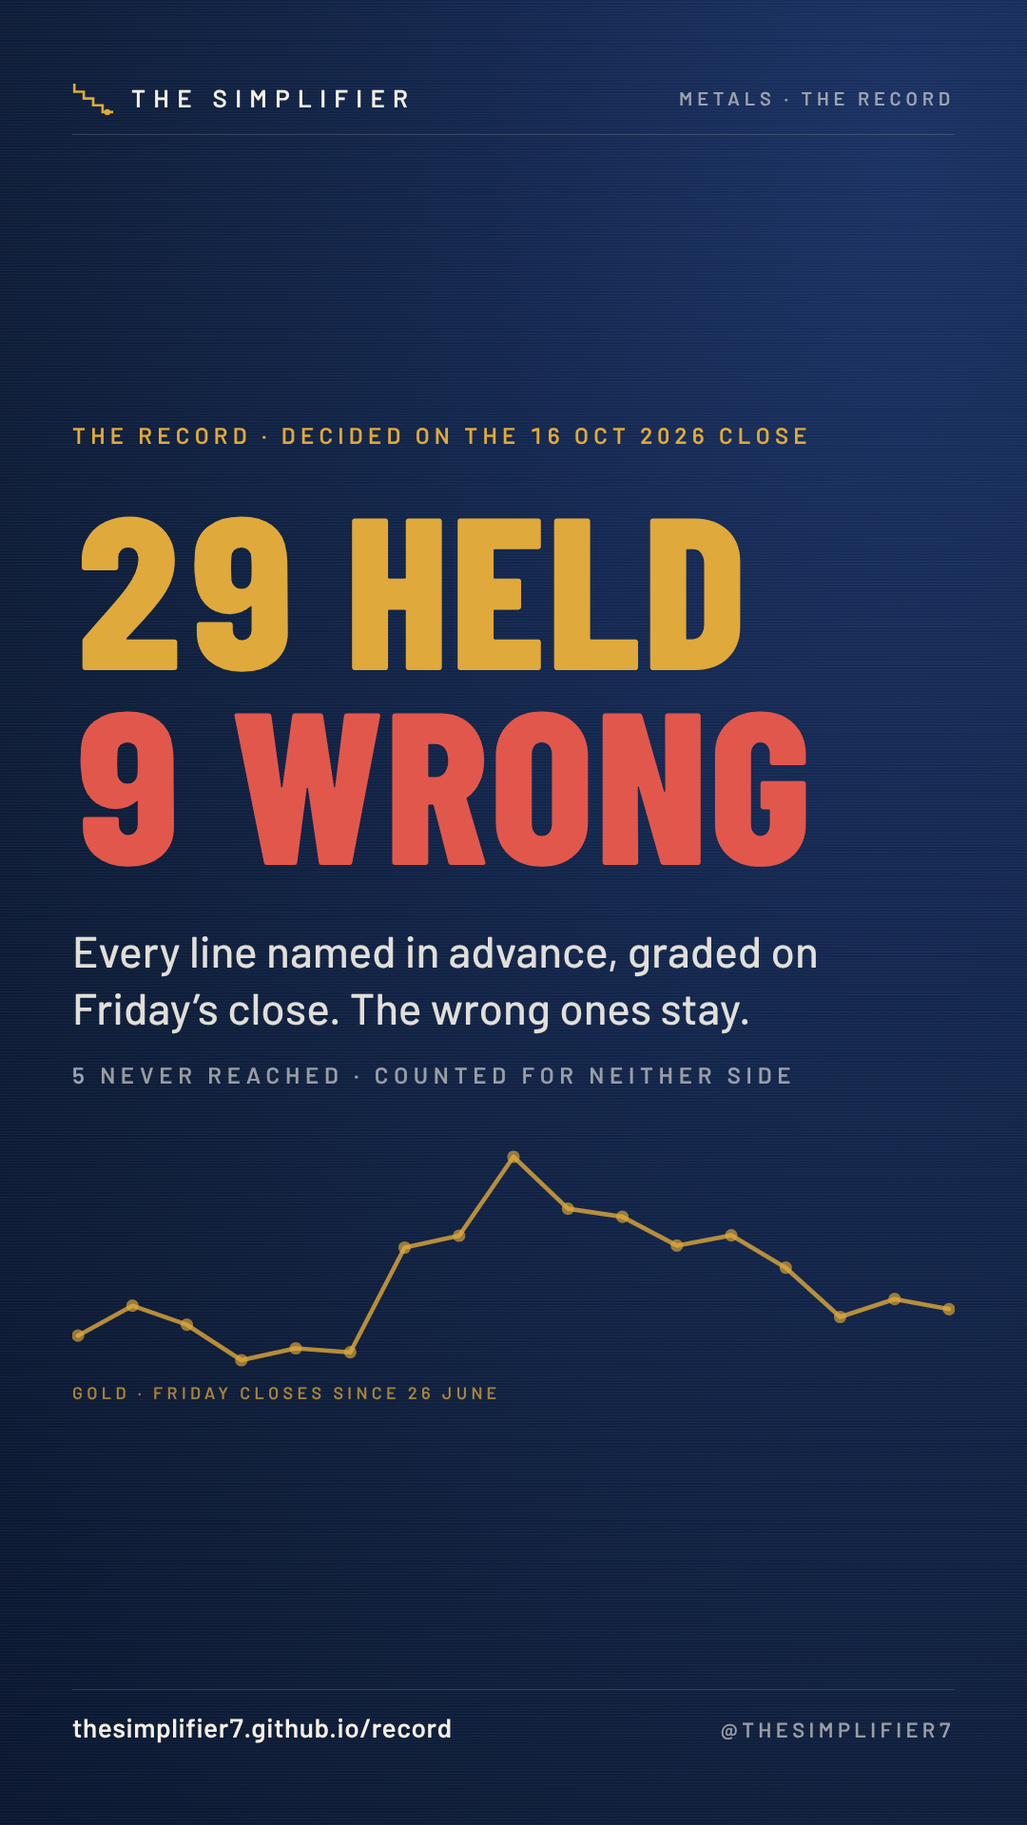
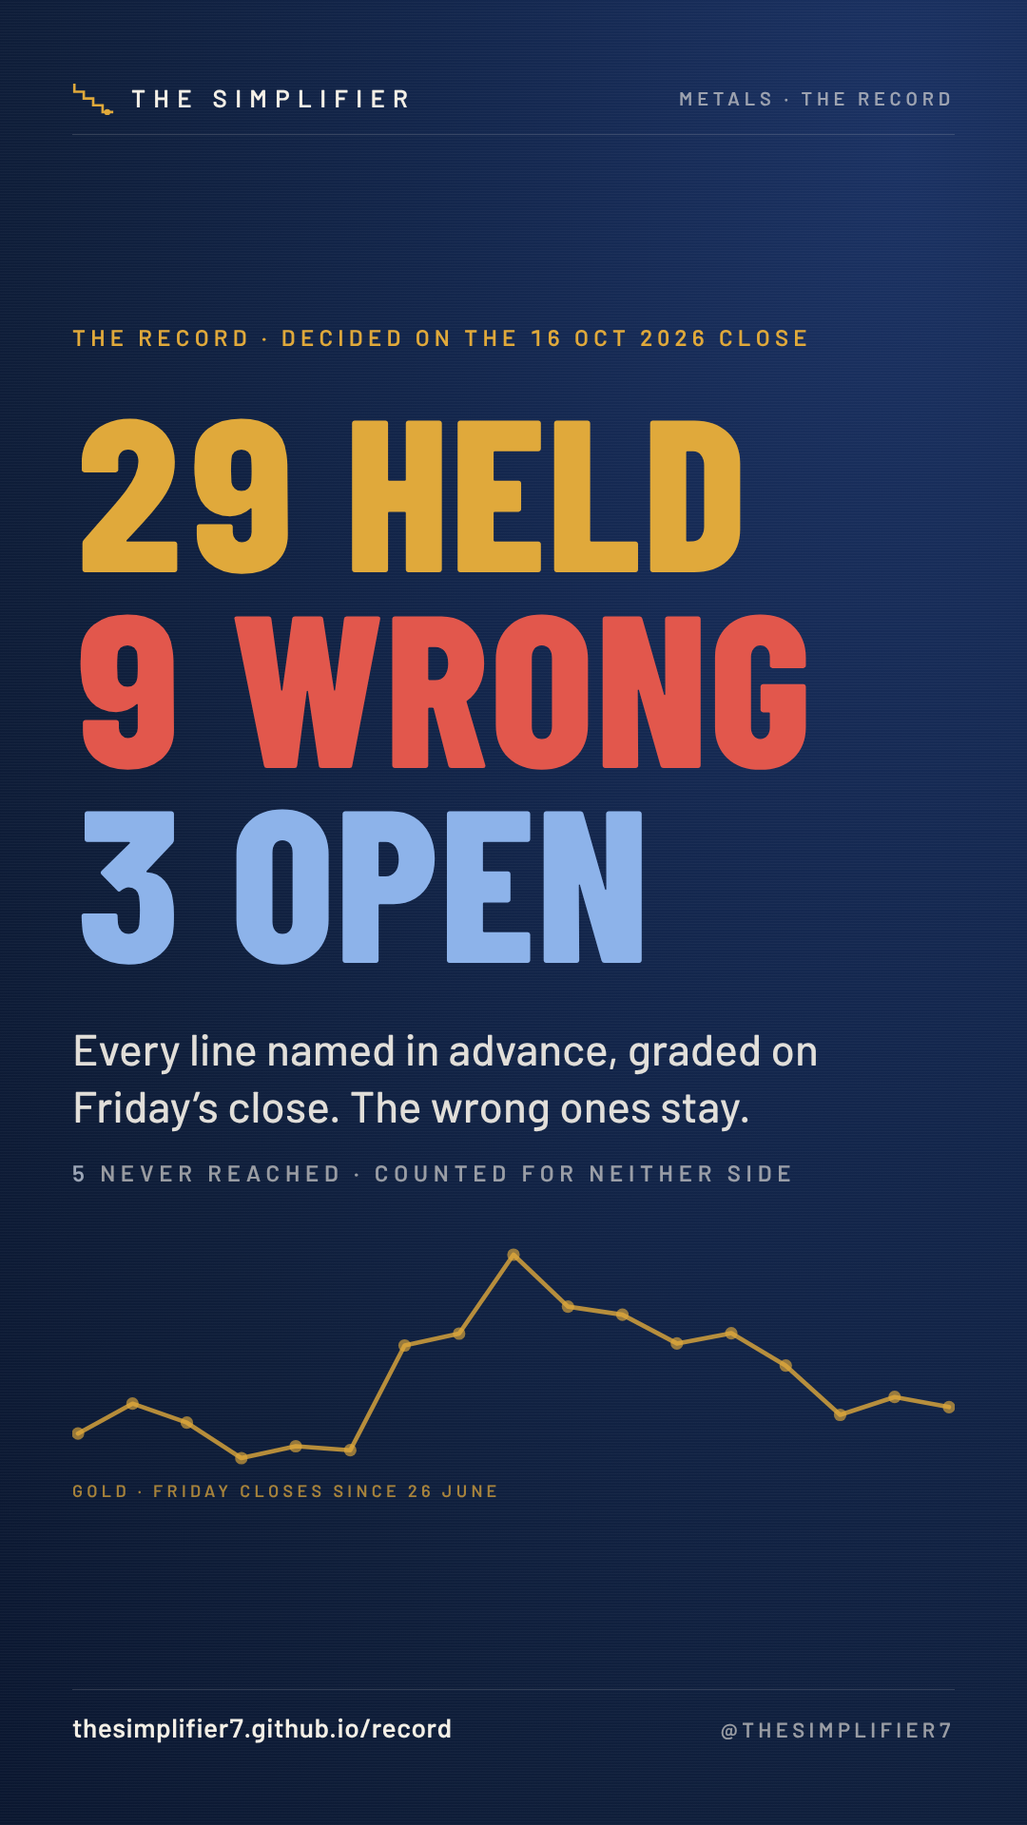
Add files via upload

diff --git a/index.html b/index.html
@@ -96,7 +96,9 @@
      <meta property="og:image" content="https://thesimplifier7.github.io/record/card_2026-10-05_graded.png?v=b55f18bf3b"> -->
 <!-- WAS card_2026-10-12_open.png until 19 Oct 2026, note 51: the week of 12 October while its three rows were open.
      <meta property="og:image" content="https://thesimplifier7.github.io/record/card_2026-10-12_open.png?v=27e7e3112f"> -->
-<meta property="og:image" content="https://thesimplifier7.github.io/record/card_2026-10-12_graded.png?v=5f30445748">
+<!-- WAS card_2026-10-12_graded.png until 19 Oct 2026, the Monday map upload: the week of 12 October, as graded.
+     <meta property="og:image" content="https://thesimplifier7.github.io/record/card_2026-10-12_graded.png?v=5f30445748"> -->
+<meta property="og:image" content="https://thesimplifier7.github.io/record/card_2026-10-19_open.png?v=0bf6b14a66">
 <meta property="og:image:width" content="1200">
 <meta property="og:image:height" content="630">
 <meta name="twitter:card" content="summary_large_image">
@@ -989,7 +991,7 @@
           </tfoot>
         </table>
       </div>
-      <p class="table-note"><span id="t-nr">5</span> never reached and <span id="t-open">0</span> open count for neither side. A hit is held, counted once. <span id="form-key"></span></p>
+      <p class="table-note"><span id="t-nr">5</span> never reached and <span id="t-open">3</span> open count for neither side. A hit is held, counted once. <span id="form-key"></span></p>
       <details class="how">
         <summary>How the count is kept</summary>
         <p class="tally-note"><b>By week, the count this page keeps.</b> <span id="t-note"></span></p>
@@ -1374,7 +1376,7 @@
    posted call before it goes live. This page is the whole brand in one place.
    ========================================================================= */
 
-const LAST_UPDATED  = "2026-10-19";   /* set by hand, with the commit. "2026-10-19" for the grade upload of 19 October, the 16 October close graded, which carries note 51, the line alone. WAS "2026-10-12": "2026-10-12" for the Monday map upload of 12 October, rows named under the call grammar (note 34), which carries note 50, The Fan's price. WAS "2026-10-10": Kept at "2026-10-10" for the third upload of 10 October, which carries note 49, the archive and the read's own line. WAS "2026-10-10" for the second upload of 10 October, which carries note 48, the cards in navy, and the hash of the first. WAS "2026-10-10" for the upload of 10 October, which carries note 46, the 9 October close graded, and note 47, the record as a table. WAS "2026-10-07": "2026-10-07" for the crowd upload of 7 October, which carries note 45, the third crowd row. WAS "2026-10-05": "2026-10-05" for the Monday map upload of 5 October, rows named under the call grammar (note 34). WAS "2026-10-02": "2026-10-02" for the grade upload of 2 October, which carries note 44, the first rows graded under the call grammar. WAS "2026-09-28": "2026-09-28" for the Monday map upload of 28 September, the first rows named under the call grammar (note 34). WAS "2026-09-25": Kept at "2026-09-25" for the grade upload of the same night, which carries note 42 (the 25 September close). WAS "2026-09-24" until the upload of 25 September, which carries notes 38 to 40 (written 24 September) and note 41 (written early on 25 September); "2026-09-23" until the 24 September uploads, which carry notes 33 to 35 (17:34 CEST), note 36 (the same evening) and note 37 (the same night); "2026-09-20" until the 23 September upload, which carries note 30 (written 22 September, not uploaded that day) and note 31; "2026-09-13" until the 20 September upload */
+const LAST_UPDATED  = "2026-10-19";   /* set by hand, with the commit. "2026-10-19" for the Monday map upload of 19 October, the first lines alone (note 51). Kept at "2026-10-19" for the grade upload of 19 October, the 16 October close graded, which carries note 51, the line alone. WAS "2026-10-12": "2026-10-12" for the Monday map upload of 12 October, rows named under the call grammar (note 34), which carries note 50, The Fan's price. WAS "2026-10-10": Kept at "2026-10-10" for the third upload of 10 October, which carries note 49, the archive and the read's own line. WAS "2026-10-10" for the second upload of 10 October, which carries note 48, the cards in navy, and the hash of the first. WAS "2026-10-10" for the upload of 10 October, which carries note 46, the 9 October close graded, and note 47, the record as a table. WAS "2026-10-07": "2026-10-07" for the crowd upload of 7 October, which carries note 45, the third crowd row. WAS "2026-10-05": "2026-10-05" for the Monday map upload of 5 October, rows named under the call grammar (note 34). WAS "2026-10-02": "2026-10-02" for the grade upload of 2 October, which carries note 44, the first rows graded under the call grammar. WAS "2026-09-28": "2026-09-28" for the Monday map upload of 28 September, the first rows named under the call grammar (note 34). WAS "2026-09-25": Kept at "2026-09-25" for the grade upload of the same night, which carries note 42 (the 25 September close). WAS "2026-09-24" until the upload of 25 September, which carries notes 38 to 40 (written 24 September) and note 41 (written early on 25 September); "2026-09-23" until the 24 September uploads, which carry notes 33 to 35 (17:34 CEST), note 36 (the same evening) and note 37 (the same night); "2026-09-20" until the 23 September upload, which carries note 30 (written 22 September, not uploaded that day) and note 31; "2026-09-13" until the 20 September upload */
 
 /* =========================================================================
    PROVENANCE  ·  which commit wrote each grade, added 4 Sep 2026
@@ -1405,7 +1407,10 @@ const PROVENANCE = {
        "2026-10-12": { written:"2026-10-12", open:true },
      Graded on the 16 October close, written 19 October. Named by the day rather than by a hash because the hash does not exist until the
      push that writes this line; swap in the hash on the next push. */
-  "2026-10-12": { graded:"2026-10-16", written:"2026-10-19", dayLink:true },
+  "2026-10-19": { written:"2026-10-19", open:true },
+  /* WAS, until the hash of the 19 October grade push was known:
+       "2026-10-12": { graded:"2026-10-16", written:"2026-10-19", dayLink:true }, */
+  "2026-10-12": { graded:"2026-10-16", written:"2026-10-19", commit:"afc859b" },
   /* WAS, while the rows were open and before the close that graded them:
        "2026-10-05": { written:"2026-10-05", open:true },
      Graded on the 9 October close, written 10 October. Named by the day rather than by a hash because the hash does not exist until the
@@ -2088,6 +2093,19 @@ const STANDING = [
    ========================================================================= */
 
 const CALLS = [
+
+  /* WEEK OF 19 OCTOBER. The first rows named as lines alone (note 51): side, line, where it comes from, read time and kill.
+     Named Monday evening on the week's own opening box, frozen at 16:00 CEST, before the first 8h close after it (23:00 CEST, note 43).
+     Read off the founder's own 2 hour TVC charts stamped 21:33, 21:36 and 21:37 CEST, from THE WEEK row of the panel of The Fan v5:
+       gold      box 4,142.70 to 4,190.38
+       silver    box 56.720 to 57.851
+       platinum  box 1,634.19 to 1,659.10
+     Each panel's THE LINE row read CEILING (gold 4,172.57, silver 58.114, platinum 1,665.94, set Monday 10:00 New York). Offered
+     THE LINE as his own level, which would have needed last week's range read off his chart, he chose the box high at 21:50 CEST,
+     before anything was uploaded. The side and the line are his read. Grade Friday at the 23:00 CEST close. */
+  { date:"2026-10-19", type:"Map", metal:"Gold", level:"4,190.38", book:"Turn", grammar:2, side:"copper", lineFrom:"box high", box:["4,142.70","4,190.38"], readAt:"21:33 CEST", call:"Gold stays below 4,190.38, the high of the box it opened this week in, frozen Monday afternoon and read off the 2 hour chart at 21:33 CEST. Named on the week's own box before any 8h close through it. Kill: a weekly close above 4,190.38.", grade:"pending" },
+  { date:"2026-10-19", type:"Map", metal:"Silver", level:"57.851", book:"Turn", grammar:2, side:"copper", lineFrom:"box high", box:["56.720","57.851"], readAt:"21:36 CEST", call:"Silver stays below 57.851, the high of the box it opened this week in, frozen Monday afternoon and read off the 2 hour chart at 21:36 CEST. Named on the week's own box before any 8h close through it. Kill: a weekly close above 57.851.", grade:"pending" },
+  { date:"2026-10-19", type:"Map", metal:"Platinum", level:"1,659.10", book:"Turn", grammar:2, side:"copper", lineFrom:"box high", box:["1,634.19","1,659.10"], readAt:"21:37 CEST", call:"Platinum stays below 1,659.10, the high of the box it opened this week in, frozen Monday afternoon and read off the 2 hour chart at 21:37 CEST. Named on the week's own box before any 8h close through it. Kill: a weekly close above 1,659.10.", grade:"pending" },
 
   /* WEEK OF 12 OCTOBER. Named Monday evening on the week's own opening box, frozen at
      16:00 CEST, before the first 8h close after it (23:00 CEST Monday, note 43), under the call grammar (note 34).
@@ -5524,7 +5542,7 @@ route(true);
       <div class="lab">Graded wrong, still on this page</div>
     </div>
     <div class="stat">
-      <div class="num blue" id="t-open">0</div>
+      <div class="num blue" id="t-open">3</div>
       <div class="lab">Open, clock running</div>
     </div>
   </section>

diff --git a/week_card.html b/week_card.html
@@ -24,11 +24,11 @@ body::before{content:"";position:absolute;inset:0;opacity:.06;pointer-events:non
 .count .url{margin-left:auto;letter-spacing:.04em;text-transform:none;color:rgba(243,239,230,.58);font-size:16px;font-weight:500}
 </style></head><body>
 <div class="mast"><b><svg viewBox="0 0 40 30" fill="none" aria-hidden="true"><path d="M2 3V9.5H11V16H20V22.5H29V29H38" stroke="#E0A93B" stroke-width="2.4" stroke-linejoin="miter" stroke-linecap="square"></path><circle cx="33.5" cy="29" r="2.9" fill="#E0A93B"></circle></svg>THE SIMPLIFIER</b><span>Metals · the record</span></div>
-<div class="k">Decided on the 16 Oct close · the next calls come Monday</div>
-<div class="cols"><div class="c" style="border-top-color:#E0A93B"><div class="m">Gold</div><div class="lv" style="color:#E0A93B">4,217.19</div>
-    <div class="l2" style="color:#E0A93B">Held</div><div class="l3">close 16 Oct · 4,165.015</div><div class="l4" style="color:#E0A93B">+52.175 clear</div></div><div class="c" style="border-top-color:#E0A93B"><div class="m">Silver</div><div class="lv" style="color:#E0A93B">61.449</div>
-    <div class="l2" style="color:#E0A93B">Held</div><div class="l3">close 16 Oct · 56.9750</div><div class="l4" style="color:#E0A93B">+4.474 clear</div></div><div class="c" style="border-top-color:#E0A93B"><div class="m">Platinum</div><div class="lv" style="color:#E0A93B">1,710.80</div>
-    <div class="l2" style="color:#E0A93B">Held</div><div class="l3">close 16 Oct · 1,645.50</div><div class="l4" style="color:#E0A93B">+65.30 clear</div></div></div>
-<div class="count"><span><b style="color:#F3EFE6">38</b>resolved</span><span><b style="color:#E0A93B">29</b>held</span><span><b style="color:#E2574C">9</b>wrong, kept</span><span class="url">thesimplifier7.github.io/record</span></div>
+<div class="k">This week · called 19 Oct · decided on the 23 Oct close</div>
+<div class="cols"><div class="c" style="border-top-color:#8DB3EA"><div class="m">Gold</div><div class="lv" style="color:#8DB3EA">4,190.38</div>
+    <div class="l2" style="color:rgba(243,239,230,.58)">stays below</div><div class="l3">close 16 Oct · 4,165.015</div><div class="l4" style="color:#8DB3EA">wrong on a close above it</div></div><div class="c" style="border-top-color:#8DB3EA"><div class="m">Silver</div><div class="lv" style="color:#8DB3EA">57.851</div>
+    <div class="l2" style="color:rgba(243,239,230,.58)">stays below</div><div class="l3">close 16 Oct · 56.9750</div><div class="l4" style="color:#8DB3EA">wrong on a close above it</div></div><div class="c" style="border-top-color:#8DB3EA"><div class="m">Platinum</div><div class="lv" style="color:#8DB3EA">1,659.10</div>
+    <div class="l2" style="color:rgba(243,239,230,.58)">stays below</div><div class="l3">close 16 Oct · 1,645.50</div><div class="l4" style="color:#8DB3EA">wrong on a close above it</div></div></div>
+<div class="count"><span><b style="color:#F3EFE6">38</b>resolved</span><span><b style="color:#E0A93B">29</b>held</span><span><b style="color:#E2574C">9</b>wrong, kept</span><span><b style="color:#8DB3EA">3</b>open</span><span class="url">thesimplifier7.github.io/record</span></div>
 <div class="na">This is structural analysis. It is not a recommendation to buy or sell. I develop and sell The Fan, the indicator these levels are read from.</div>
 </body></html>

diff --git a/tally_card_landscape_dark.html b/tally_card_landscape_dark.html
@@ -32,7 +32,7 @@
   <div class="mast"><span class="name"><svg viewBox="0 0 40 30" fill="none" aria-hidden="true"><path d="M2 3V9.5H11V16H20V22.5H29V29H38" stroke="#E0A93B" stroke-width="2.4" stroke-linejoin="miter" stroke-linecap="square"></path><circle cx="33.5" cy="29" r="2.9" fill="#E0A93B"></circle></svg>The Simplifier</span><span class="desc">Metals · The record</span></div>
   <div class="body">
     <div class="kicker">The record · decided on the 16 Oct 2026 close</div>
-    <div class="big"><span class="h">29 held</span><span class="dot">·</span><span class="w">9 wrong</span></div>
+    <div class="big"><span class="h">29 held</span><span class="dot">·</span><span class="w">9 wrong</span><span class="dot">·</span><span class="o">3 open</span></div>
     <div class="say">Every line named in advance, graded on Friday’s close. The wrong ones stay.</div>
     <div class="nr"><b>5</b> never reached · counted for neither side</div>
     <div class="low"><div class="spark"><svg width="620" height="170" viewBox="0 0 620 170" fill="none" aria-hidden="true"><path d="M6.0 143.4 L44.0 120.8 L82.0 135.1 L120.0 162.0 L158.0 153.0 L196.0 156.0 L234.0 76.7 L272.0 67.7 L310.0 8.0 L348.0 47.3 L386.0 53.4 L424.0 75.2 L462.0 67.4 L500.0 92.0 L538.0 129.2 L576.0 115.7 L614.0 123.4" stroke="#E0A93B" stroke-opacity=".8" stroke-width="3.1" stroke-linejoin="round" stroke-linecap="round"></path><circle cx="6.0" cy="143.4" r="4.4" fill="#E0A93B" fill-opacity=".65"></circle><circle cx="44.0" cy="120.8" r="4.4" fill="#E0A93B" fill-opacity=".65"></circle><circle cx="82.0" cy="135.1" r="4.4" fill="#E0A93B" fill-opacity=".65"></circle><circle cx="120.0" cy="162.0" r="4.4" fill="#E0A93B" fill-opacity=".65"></circle><circle cx="158.0" cy="153.0" r="4.4" fill="#E0A93B" fill-opacity=".65"></circle><circle cx="196.0" cy="156.0" r="4.4" fill="#E0A93B" fill-opacity=".65"></circle><circle cx="234.0" cy="76.7" r="4.4" fill="#E0A93B" fill-opacity=".65"></circle><circle cx="272.0" cy="67.7" r="4.4" fill="#E0A93B" fill-opacity=".65"></circle><circle cx="310.0" cy="8.0" r="4.4" fill="#E0A93B" fill-opacity=".65"></circle><circle cx="348.0" cy="47.3" r="4.4" fill="#E0A93B" fill-opacity=".65"></circle><circle cx="386.0" cy="53.4" r="4.4" fill="#E0A93B" fill-opacity=".65"></circle><circle cx="424.0" cy="75.2" r="4.4" fill="#E0A93B" fill-opacity=".65"></circle><circle cx="462.0" cy="67.4" r="4.4" fill="#E0A93B" fill-opacity=".65"></circle><circle cx="500.0" cy="92.0" r="4.4" fill="#E0A93B" fill-opacity=".65"></circle><circle cx="538.0" cy="129.2" r="4.4" fill="#E0A93B" fill-opacity=".65"></circle><circle cx="576.0" cy="115.7" r="4.4" fill="#E0A93B" fill-opacity=".65"></circle><circle cx="614.0" cy="123.4" r="4.4" fill="#E0A93B" fill-opacity=".65"></circle></svg><div class="cap">Gold · Friday closes since 26 June</div></div></div>

diff --git a/tally_card_vertical_dark.html b/tally_card_vertical_dark.html
@@ -32,7 +32,7 @@
   <div class="mast"><span class="name"><svg viewBox="0 0 40 30" fill="none" aria-hidden="true"><path d="M2 3V9.5H11V16H20V22.5H29V29H38" stroke="#E0A93B" stroke-width="2.4" stroke-linejoin="miter" stroke-linecap="square"></path><circle cx="33.5" cy="29" r="2.9" fill="#E0A93B"></circle></svg>The Simplifier</span><span class="desc">Metals · The record</span></div>
   <div class="body">
     <div class="kicker">The record · decided on the 16 Oct 2026 close</div>
-    <div class="big"><div class="h">29 held</div><div class="w">9 wrong</div></div>
+    <div class="big"><div class="h">29 held</div><div class="w">9 wrong</div><div class="o">3 open</div></div>
     <div class="say">Every line named in advance, graded on Friday’s close. The wrong ones stay.</div>
     <div class="nr"><b>5</b> never reached · counted for neither side</div>
     <div class="low"><div class="spark"><svg width="928" height="230" viewBox="0 0 928 230" fill="none" aria-hidden="true"><path d="M6.0 196.2 L63.3 164.7 L120.5 184.7 L177.8 222.0 L235.0 209.5 L292.3 213.7 L349.5 103.5 L406.8 91.0 L464.0 8.0 L521.3 62.6 L578.5 71.1 L635.8 101.4 L693.0 90.6 L750.3 124.7 L807.5 176.5 L864.8 157.7 L922.0 168.3" stroke="#E0A93B" stroke-opacity=".8" stroke-width="4.6" stroke-linejoin="round" stroke-linecap="round"></path><circle cx="6.0" cy="196.2" r="6.6" fill="#E0A93B" fill-opacity=".65"></circle><circle cx="63.3" cy="164.7" r="6.6" fill="#E0A93B" fill-opacity=".65"></circle><circle cx="120.5" cy="184.7" r="6.6" fill="#E0A93B" fill-opacity=".65"></circle><circle cx="177.8" cy="222.0" r="6.6" fill="#E0A93B" fill-opacity=".65"></circle><circle cx="235.0" cy="209.5" r="6.6" fill="#E0A93B" fill-opacity=".65"></circle><circle cx="292.3" cy="213.7" r="6.6" fill="#E0A93B" fill-opacity=".65"></circle><circle cx="349.5" cy="103.5" r="6.6" fill="#E0A93B" fill-opacity=".65"></circle><circle cx="406.8" cy="91.0" r="6.6" fill="#E0A93B" fill-opacity=".65"></circle><circle cx="464.0" cy="8.0" r="6.6" fill="#E0A93B" fill-opacity=".65"></circle><circle cx="521.3" cy="62.6" r="6.6" fill="#E0A93B" fill-opacity=".65"></circle><circle cx="578.5" cy="71.1" r="6.6" fill="#E0A93B" fill-opacity=".65"></circle><circle cx="635.8" cy="101.4" r="6.6" fill="#E0A93B" fill-opacity=".65"></circle><circle cx="693.0" cy="90.6" r="6.6" fill="#E0A93B" fill-opacity=".65"></circle><circle cx="750.3" cy="124.7" r="6.6" fill="#E0A93B" fill-opacity=".65"></circle><circle cx="807.5" cy="176.5" r="6.6" fill="#E0A93B" fill-opacity=".65"></circle><circle cx="864.8" cy="157.7" r="6.6" fill="#E0A93B" fill-opacity=".65"></circle><circle cx="922.0" cy="168.3" r="6.6" fill="#E0A93B" fill-opacity=".65"></circle></svg><div class="cap">Gold · Friday closes since 26 June</div></div></div>

diff --git a/misses.html b/misses.html
@@ -100,7 +100,7 @@ if(t==="light")document.documentElement.setAttribute("data-theme","light");})();
   </nav>
   <h1>The ones I got wrong.</h1>
   <p class="stand">You have followed a gold call that was wrong and watched it disappear. These did not. Every call on the record that the close proved wrong, in full: the level as named, the kill published with it before the week, the close that fired it, and everything written about it afterwards. They are here because a record that keeps only its wins is not a record.</p>
-  <p class="tally"><b>9</b> wrong · <b>29</b> held · <b>5</b> never reached · 43 rows on the record. The wrong ones are 24 percent of the 38 resolved, stated beside its base because a percentage on a base this size is a small sample and should be read as one.</p>
+  <p class="tally"><b>9</b> wrong · <b>29</b> held · <b>5</b> never reached · <b>3</b> open · 46 rows on the record. The wrong ones are 24 percent of the 38 resolved, stated beside its base because a percentage on a base this size is a small sample and should be read as one.</p>
 
   <section class="miss" id="miss-1">
     <div class="head">

diff --git a/embed.html b/embed.html
@@ -12,7 +12,7 @@
 <meta property="og:url" content="https://thesimplifier7.github.io/record/embed.html">
 <meta property="og:title" content="The Simplifier · Put the record on your page">
 <meta property="og:description" content="One script tag. The live tally and the last graded row from The Simplifier's record, on any page. Nothing typed, nothing cached, nothing tracked.">
-<meta property="og:image" content="https://thesimplifier7.github.io/record/link_embed.png?v=a1d7af9621">
+<meta property="og:image" content="https://thesimplifier7.github.io/record/link_embed.png?v=503aae7216">
 <meta property="og:image:width" content="1200"><meta property="og:image:height" content="630">
 <meta name="twitter:card" content="summary_large_image">
 <!-- =========================================================================

diff --git a/guest.html b/guest.html
@@ -13,7 +13,7 @@
 <meta property="og:url" content="https://thesimplifier7.github.io/record/guest.html">
 <meta property="og:title" content="The Simplifier · For producers and hosts">
 <meta property="og:description" content="Ten years on the Cazenove gold desk. Publishes a level every week, publishes what would prove it wrong, and grades it at Friday's close.">
-<meta property="og:image" content="https://thesimplifier7.github.io/record/link_guest.png?v=dcca046915">
+<meta property="og:image" content="https://thesimplifier7.github.io/record/link_guest.png?v=b203e45130">
 <meta property="og:image:width" content="1200"><meta property="og:image:height" content="630">
 <meta name="twitter:card" content="summary_large_image">
 

diff --git a/advisers.html b/advisers.html
@@ -13,7 +13,7 @@
 <meta property="og:url" content="https://thesimplifier7.github.io/record/advisers.html">
 <meta property="og:title" content="The Simplifier · For advisers">
 <meta property="og:description" content="What a client is sent to when you mention this desk. Education, a method, a graded ledger. Nothing else.">
-<meta property="og:image" content="https://thesimplifier7.github.io/record/link_advisers.png?v=45db541ec9">
+<meta property="og:image" content="https://thesimplifier7.github.io/record/link_advisers.png?v=ad1e07101e">
 <meta property="og:image:width" content="1200"><meta property="og:image:height" content="630">
 <meta name="twitter:card" content="summary_large_image">
 

diff --git a/year.html b/year.html
@@ -13,7 +13,7 @@
 <meta property="og:url" content="https://thesimplifier7.github.io/record/year.html">
 <meta property="og:title" content="The Simplifier · The Year">
 <meta property="og:description" content="Twelve weeks, then nine months. One person at a time, by introduction.">
-<meta property="og:image" content="https://thesimplifier7.github.io/record/link_year.png?v=1c429bd699">
+<meta property="og:image" content="https://thesimplifier7.github.io/record/link_year.png?v=8bf9e8db20">
 <meta property="og:image:width" content="1200"><meta property="og:image:height" content="630">
 <meta name="twitter:card" content="summary_large_image">
 
